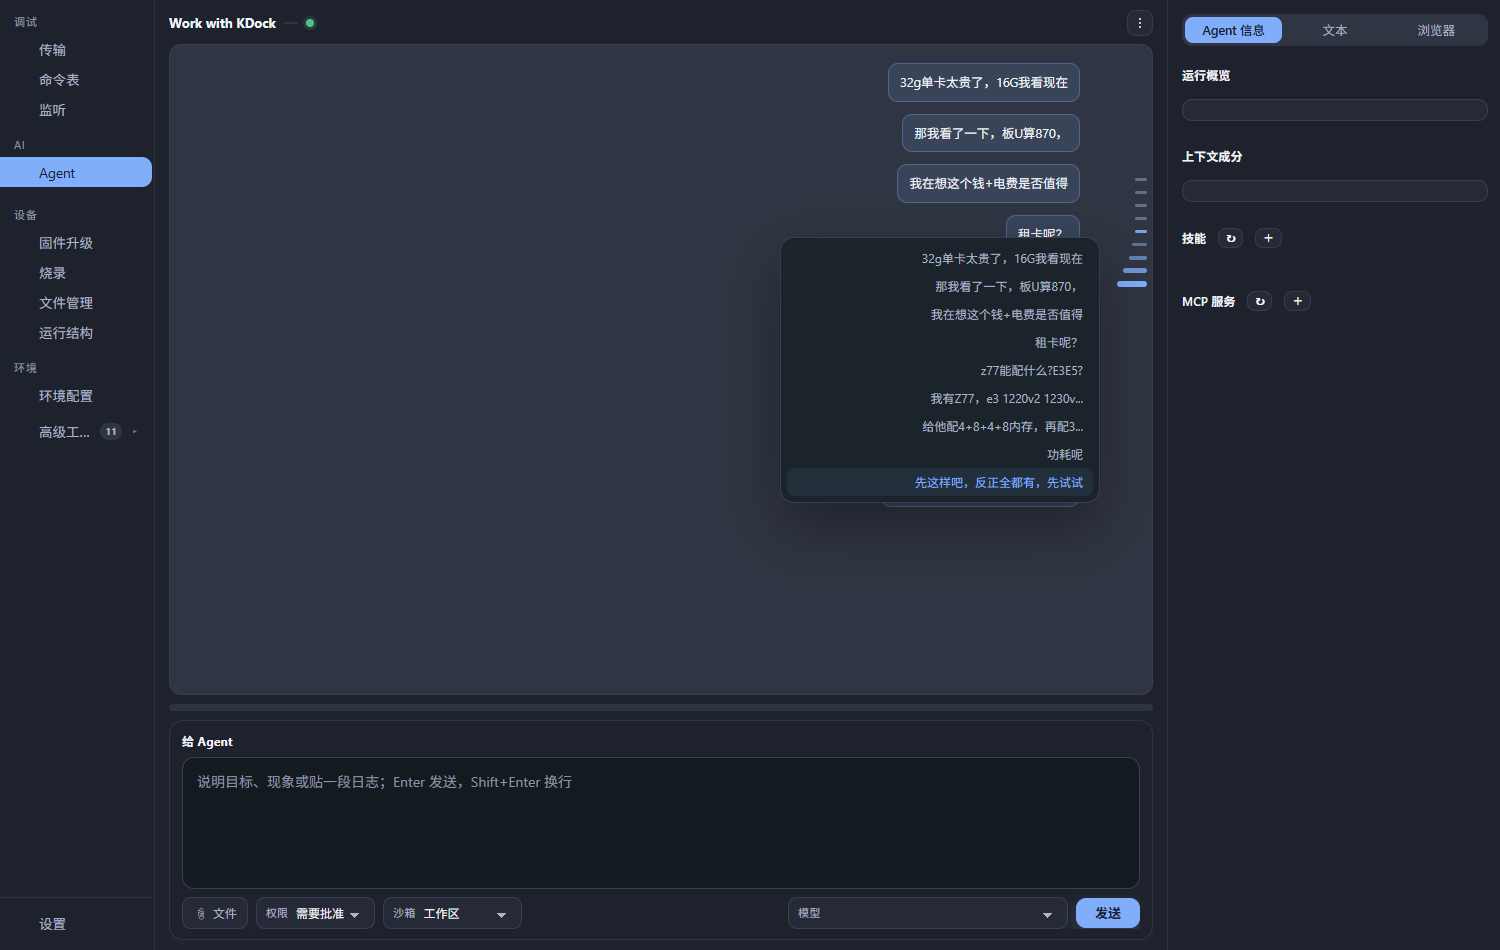
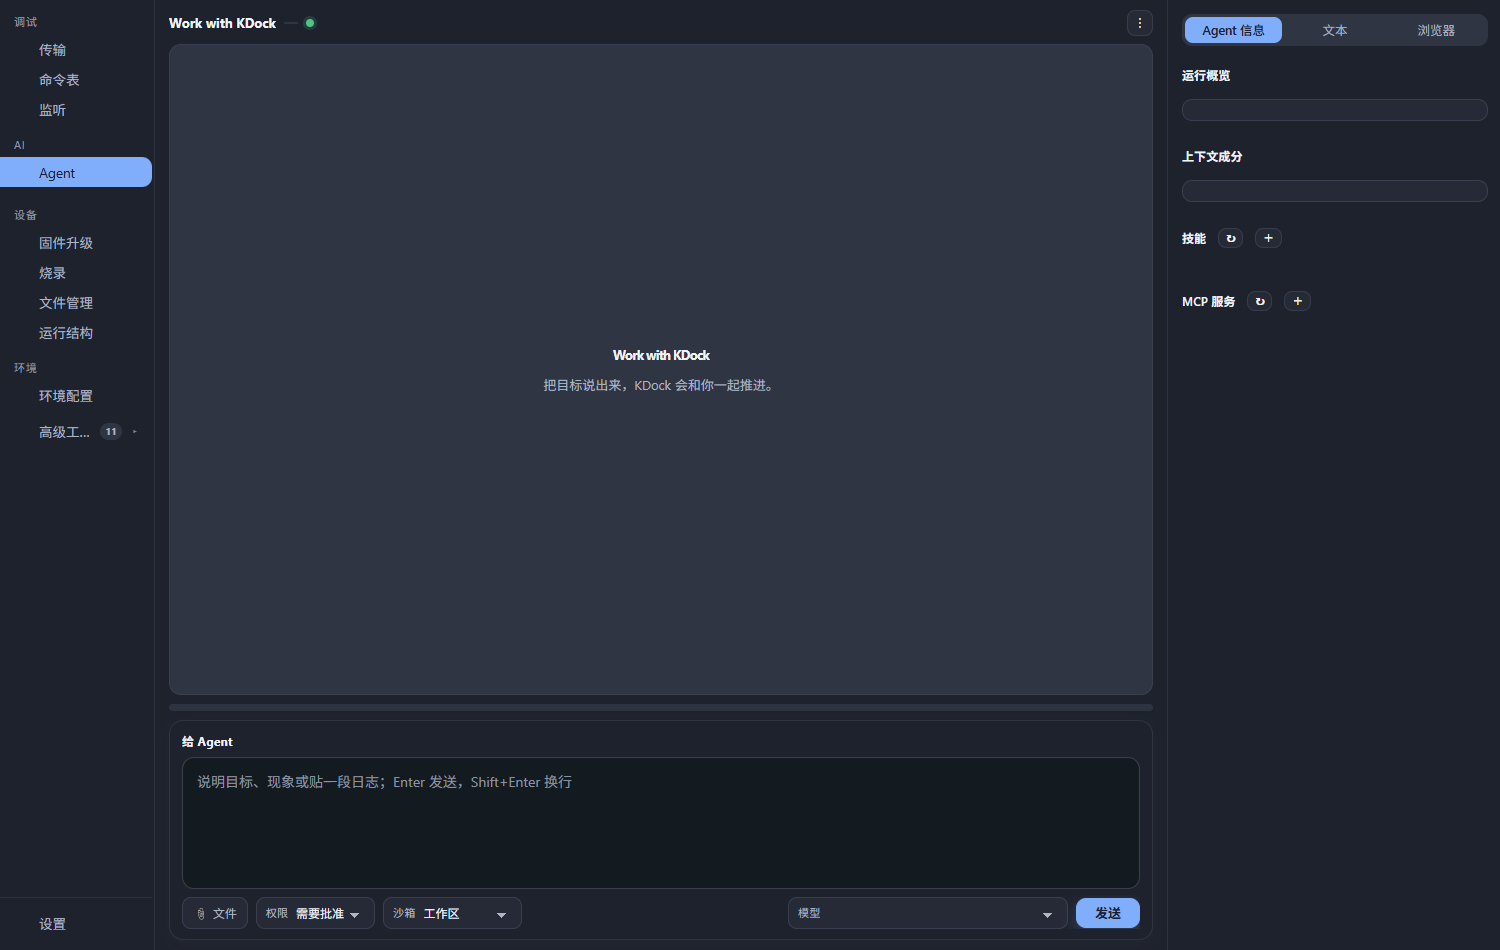
docs: use clean empty-state README hero

Changed region(s): [[0.368, 0.1832, 0.7667, 0.5495], [0.5827, 0.0611, 0.7053, 0.0916], [0.6133, 0.1221, 0.7053, 0.1526]]

diff --git a/README.en.md b/README.en.md
@@ -16,7 +16,7 @@ Go from connecting a device to finding the problem, flashing a fix and automatin
 
 [中文](README.md) ｜ **English**
 
-<img src="docs/images/readme-agent.png" width="100%" alt="KDock Agent and message navigation preview" />
+<img src="docs/images/readme-agent.png" width="100%" alt="KDock Agent empty-state home screen" />
 
 </div>
 

diff --git a/README.md b/README.md
@@ -16,7 +16,7 @@
 
 **中文** ｜ [English](README.en.md)
 
-<img src="docs/images/readme-agent.png" width="100%" alt="KDock Agent 与消息导航预览" />
+<img src="docs/images/readme-agent.png" width="100%" alt="KDock Agent 空状态首页" />
 
 </div>
 
